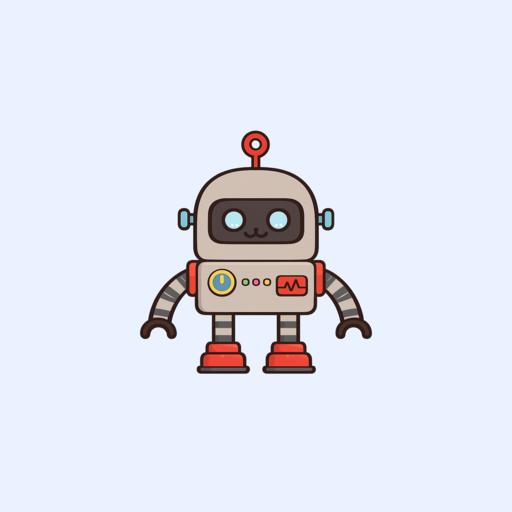
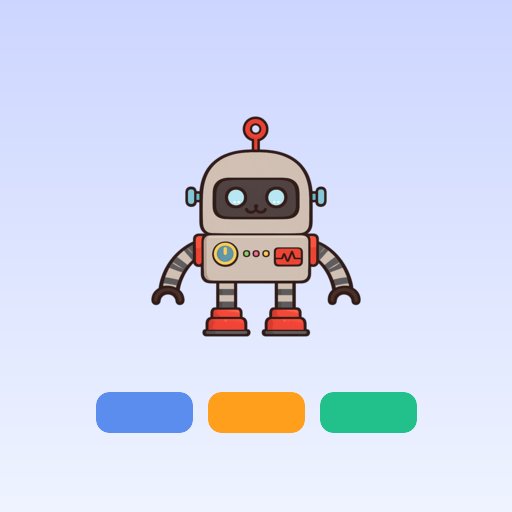
설치형 PWA로 개선 — 전용 아이콘, 설치 버튼, iOS 안내
- 브랜드 아이콘 새로 제작(라이미 + 블록코딩 색 블록): icon-192/512, apple-touch-icon
- manifest 보강: id·scope·maskable 아이콘·categories·standalone
- '📲 앱 설치' 버튼: Android/Chrome beforeinstallprompt 연동, iOS는 '홈 화면에 추가' 안내 시트
- 서비스워커 v4 (새 아이콘 캐시 포함), 모듈 버전 v4

diff --git a/js/app.js b/js/app.js
@@ -1,7 +1,7 @@
-import { I18N } from "./i18n.js?v=3";
-import { openGame, rerenderGame } from "./maze.js?v=3";
-import { openQuiz, rerenderQuiz } from "./quiz.js?v=3";
-import { openPyLab, rerenderPyLab } from "./pylab.js?v=3";
+import { I18N } from "./i18n.js?v=4";
+import { openGame, rerenderGame } from "./maze.js?v=4";
+import { openQuiz, rerenderQuiz } from "./quiz.js?v=4";
+import { openPyLab, rerenderPyLab } from "./pylab.js?v=4";
 
 const RAIMI_IMG = "assets/raimi.png";
 
@@ -120,3 +120,39 @@ if ("serviceWorker" in navigator) {
     navigator.serviceWorker.register("sw.js").catch(() => {});
   });
 }
+
+// ===================== PWA 설치 안내 =====================
+const installBtn = document.getElementById("installBtn");
+const iosSheet = document.getElementById("iosSheet");
+let deferredPrompt = null;
+function isStandalone() {
+  return window.matchMedia("(display-mode: standalone)").matches || window.navigator.standalone === true;
+}
+function isIOS() {
+  return /iphone|ipad|ipod/i.test(navigator.userAgent) ||
+    (navigator.platform === "MacIntel" && navigator.maxTouchPoints > 1); // iPadOS
+}
+// 안드로이드/크롬/엣지: 설치 가능 시점에 버튼 노출
+window.addEventListener("beforeinstallprompt", (e) => {
+  e.preventDefault();
+  deferredPrompt = e;
+  if (!isStandalone()) installBtn.style.display = "flex";
+});
+window.addEventListener("appinstalled", () => {
+  installBtn.style.display = "none";
+  deferredPrompt = null;
+});
+installBtn.onclick = async () => {
+  if (deferredPrompt) {
+    deferredPrompt.prompt();
+    await deferredPrompt.userChoice.catch(() => {});
+    deferredPrompt = null;
+    installBtn.style.display = "none";
+  } else if (isIOS()) {
+    iosSheet.classList.add("show");
+  }
+};
+document.getElementById("iosClose").onclick = () => iosSheet.classList.remove("show");
+iosSheet.onclick = (e) => { if (e.target === iosSheet) iosSheet.classList.remove("show"); };
+// iOS 사파리엔 beforeinstallprompt 가 없으므로, 설치 전이면 버튼을 직접 노출
+if (!isStandalone() && isIOS()) installBtn.style.display = "flex";

diff --git a/css/styles.css b/css/styles.css
@@ -37,6 +37,25 @@ header{position:relative;z-index:2;display:flex;align-items:center;gap:14px;padd
 .langBtn{border:none;background:#fff;border-radius:30px;padding:10px 16px;font:inherit;font-size:16px;font-weight:700;cursor:pointer;box-shadow:0 4px 0 #c9d0f0;display:flex;align-items:center;gap:6px;color:#5b568a;}
 .langBtn .globe{font-size:18px;}
 .langBtn:active{transform:translateY(2px);box-shadow:0 2px 0 #c9d0f0;}
+.installBtn{border:none;background:linear-gradient(160deg,#8f9cff,#6c7bff);color:#fff;border-radius:30px;
+  padding:10px 18px;font:inherit;font-size:16px;font-weight:800;cursor:pointer;box-shadow:0 4px 0 var(--accentD);
+  display:flex;align-items:center;gap:6px;animation:installPulse 2.4s ease-in-out infinite;}
+.installBtn:active{transform:translateY(2px);box-shadow:0 2px 0 var(--accentD);}
+@keyframes installPulse{0%,100%{box-shadow:0 4px 0 var(--accentD)}50%{box-shadow:0 4px 0 var(--accentD),0 0 0 5px rgba(108,123,255,.22)}}
+
+/* iOS '홈 화면에 추가' 안내 시트 */
+.iosSheet{position:fixed;inset:0;z-index:200;display:none;align-items:center;justify-content:center;
+  background:rgba(47,42,74,.5);backdrop-filter:blur(3px);}
+.iosSheet.show{display:flex;animation:fadeUp .3s ease both;}
+.iosCard{background:#fff;border-radius:28px;padding:30px 34px;text-align:center;max-width:440px;margin:16px;
+  box-shadow:0 18px 50px rgba(0,0,0,.3);}
+.iosCard .iosIcon{width:84px;height:84px;border-radius:20px;display:block;margin:0 auto 12px;box-shadow:0 6px 16px rgba(108,123,255,.3);}
+.iosCard .iosTitle{font-size:26px;font-weight:800;color:var(--accentD);margin-bottom:10px;}
+.iosCard .iosBody{font-size:19px;line-height:1.6;color:#4a4668;}
+.iosCard .iosBody b{color:var(--accentD);}
+.iosClose{margin-top:22px;border:none;border-radius:22px;padding:13px 34px;font:inherit;font-size:20px;font-weight:800;
+  cursor:pointer;background:linear-gradient(160deg,#8f9cff,#6c7bff);color:#fff;box-shadow:0 6px 0 var(--accentD);}
+.iosClose:active{transform:translateY(2px);box-shadow:0 3px 0 var(--accentD);}
 
 main{position:relative;z-index:2;padding:10px 24px 6px;margin:0 auto;width:100%;
   flex:1;min-height:0;display:flex;flex-direction:column;justify-content:center;overflow:visible;}

diff --git a/index.html b/index.html
@@ -10,12 +10,12 @@
 <meta name="apple-mobile-web-app-capable" content="yes" />
 <meta name="apple-mobile-web-app-status-bar-style" content="default" />
 <meta name="apple-mobile-web-app-title" content="블록코딩 연구소" />
-<link rel="apple-touch-icon" href="assets/icon-192.png" />
+<link rel="apple-touch-icon" href="assets/apple-touch-icon.png" />
 <link rel="preconnect" href="https://fonts.googleapis.com">
 <link rel="preconnect" href="https://fonts.gstatic.com" crossorigin>
 <link href="https://fonts.googleapis.com/css2?family=Gaegu:wght@400;700&family=Jua&display=swap" rel="stylesheet">
 <link rel="stylesheet" as="style" crossorigin href="https://cdn.jsdelivr.net/gh/orioncactus/pretendard@v1.3.9/dist/web/static/pretendard.css" />
-<link rel="stylesheet" href="css/styles.css?v=3" />
+<link rel="stylesheet" href="css/styles.css?v=4" />
 </head>
 <body>
   <span class="blob b1"></span><span class="blob b2"></span><span class="blob b3"></span>
@@ -28,6 +28,7 @@
       <div class="logoSub" data-i18n="appSub">코딩이 처음이어도 괜찮아!</div>
     </div>
     <div class="headRight">
+      <button class="installBtn" id="installBtn" data-i18n="installApp" style="display:none">📲 앱 설치</button>
       <button class="homeBtn" id="homeBtn" data-i18n="homeBtn">🏠 처음으로</button>
       <div class="langWrap">
         <button class="langBtn" id="langBtn"><span class="globe">🌐</span><span id="langCurrent">ENG</span></button>
@@ -117,8 +118,18 @@
   </main>
 
   <footer class="siteFooter">Created by Juwon Lee · Seoul RAIM</footer>
+
+  <!-- iOS 홈 화면 추가 안내 -->
+  <div class="iosSheet" id="iosSheet">
+    <div class="iosCard">
+      <img class="iosIcon" src="assets/apple-touch-icon.png" alt="앱 아이콘" />
+      <div class="iosTitle" data-i18n="iosTitle">홈 화면에 앱으로 추가하기</div>
+      <div class="iosBody" data-i18n-html="iosBody"></div>
+      <button class="iosClose" id="iosClose" data-i18n="iosClose">알겠어요</button>
+    </div>
+  </div>
   </div>
 
-  <script type="module" src="js/app.js?v=3"></script>
+  <script type="module" src="js/app.js?v=4"></script>
 </body>
 </html>

diff --git a/sw.js b/sw.js
@@ -1,19 +1,20 @@
 // 라이미 블록코딩 연구소 — 간단한 오프라인 캐시 (PWA)
-const CACHE = "raim-block-v3";
+const CACHE = "raim-block-v4";
 const ASSETS = [
   "./",
   "./index.html",
-  "./css/styles.css?v=3",
-  "./js/app.js?v=3",
-  "./js/i18n.js?v=3",
-  "./js/maze.js?v=3",
-  "./js/quiz.js?v=3",
-  "./js/pylab.js?v=3",
+  "./css/styles.css?v=4",
+  "./js/app.js?v=4",
+  "./js/i18n.js?v=4",
+  "./js/maze.js?v=4",
+  "./js/quiz.js?v=4",
+  "./js/pylab.js?v=4",
   "./assets/raimi.png",
   "./assets/seoulraim_logo.png",
   "./assets/python-logo.svg",
   "./assets/icon-192.png",
   "./assets/icon-512.png",
+  "./assets/apple-touch-icon.png",
   "./manifest.json"
 ];
 

diff --git a/js/i18n.js b/js/i18n.js
@@ -5,6 +5,10 @@ export const I18N = {
     appSub: "코딩과 파이썬에 대해 차근차근 알아가봐요!",
     homeBtn: "🏠 처음으로",
     backToHome: "← 처음 화면으로",
+    installApp: "📲 앱 설치",
+    iosTitle: "홈 화면에 앱으로 추가하기",
+    iosBody: "사파리 아래(또는 위)의 <b>공유 버튼 ⬆️</b>을 누르고,<br><b>'홈 화면에 추가'</b>를 선택하면 앱처럼 쓸 수 있어요!",
+    iosClose: "알겠어요",
 
     introHi: "안녕하세요! 저는 코딩 친구 라이미예요 🤖",
     introTitle: "라이미와 함께 코딩을 배워봐요!",
@@ -197,6 +201,10 @@ export const I18N = {
     appSub: "Let's explore coding and Python, step by step!",
     homeBtn: "🏠 Home",
     backToHome: "← Back to start",
+    installApp: "📲 Install app",
+    iosTitle: "Add to Home Screen",
+    iosBody: "Tap the <b>Share ⬆️</b> button in Safari,<br>then choose <b>'Add to Home Screen'</b> to use it like an app!",
+    iosClose: "Got it",
 
     introHi: "Hi! I'm Raimi, your coding buddy 🤖",
     introTitle: "Let's learn to code with Raimi!",

diff --git a/js/maze.js b/js/maze.js
@@ -1,6 +1,6 @@
 // 라이미 블록코딩 연구소 — 미로 길찾기 게임 (엔트리 스타일 블록코딩)
-import { t, getLang, show, raimiImg, breakSentences } from "./app.js?v=3";
-import { I18N } from "./i18n.js?v=3";
+import { t, getLang, show, raimiImg, breakSentences } from "./app.js?v=4";
+import { I18N } from "./i18n.js?v=4";
 
 // '#' 벽, '.' 길, 'S' 시작, 'G' 깃발(목표). dir = 시작 방향, hint = 초보자 강조 블록
 const LEVELS = [

diff --git a/js/pylab.js b/js/pylab.js
@@ -1,5 +1,5 @@
 // 라이미 블록코딩 연구소 — 파이썬 배우기 (print/변수/연산/len/for/if/max)
-import { t, getLang, show, raimiImg, breakSentences } from "./app.js?v=3";
+import { t, getLang, show, raimiImg, breakSentences } from "./app.js?v=4";
 
 const ICON = { print: "🗨️", repeat: "🔁", if: "🔀", var: "📦" };
 

diff --git a/js/quiz.js b/js/quiz.js
@@ -1,5 +1,5 @@
 // 라이미 블록코딩 연구소 — 코딩 퀴즈 (카테고리: 1.코딩이란 2.함수)
-import { t, getLang, show, raimiImg, breakSentences } from "./app.js?v=3";
+import { t, getLang, show, raimiImg, breakSentences } from "./app.js?v=4";
 
 let view = "pick";   // pick | quiz | result
 let catIdx = 0;